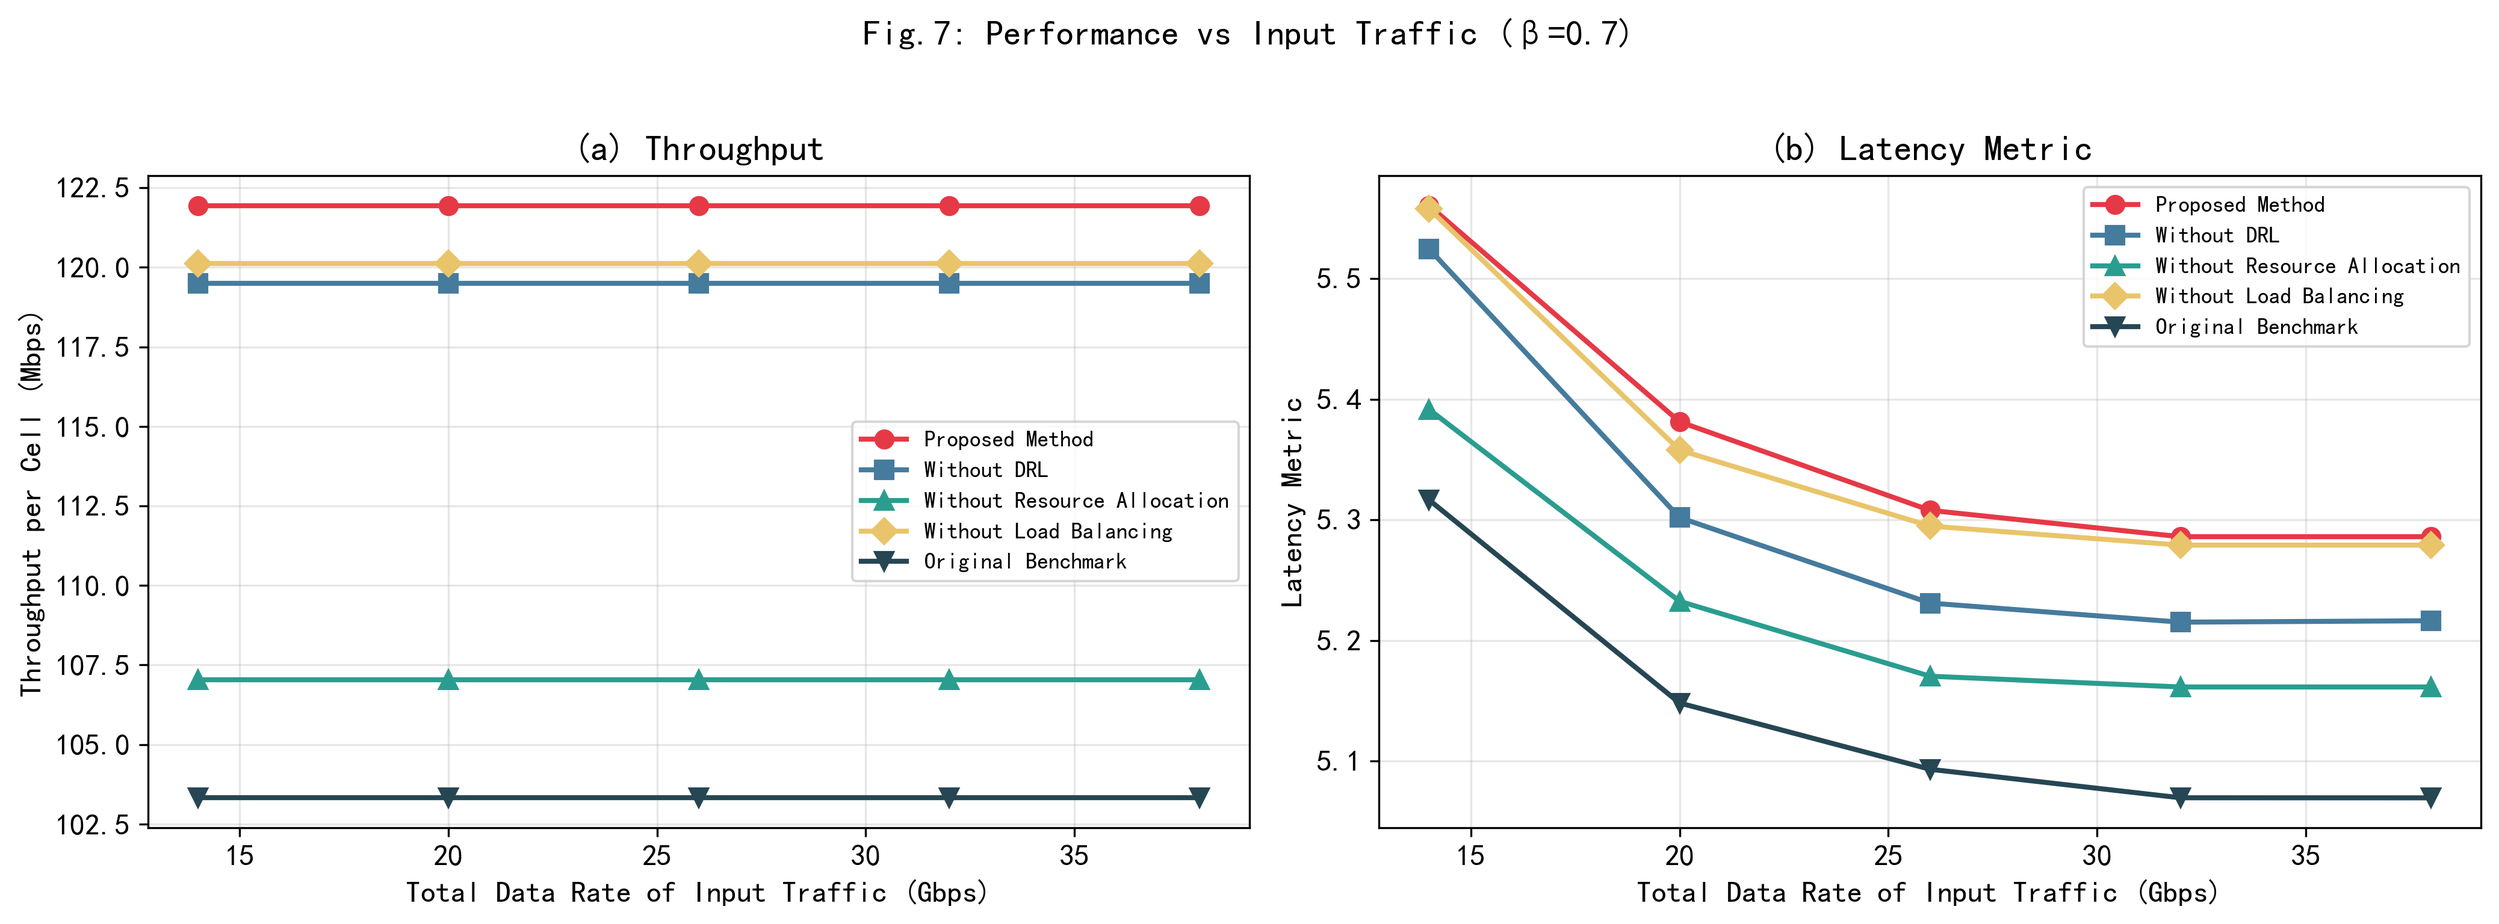
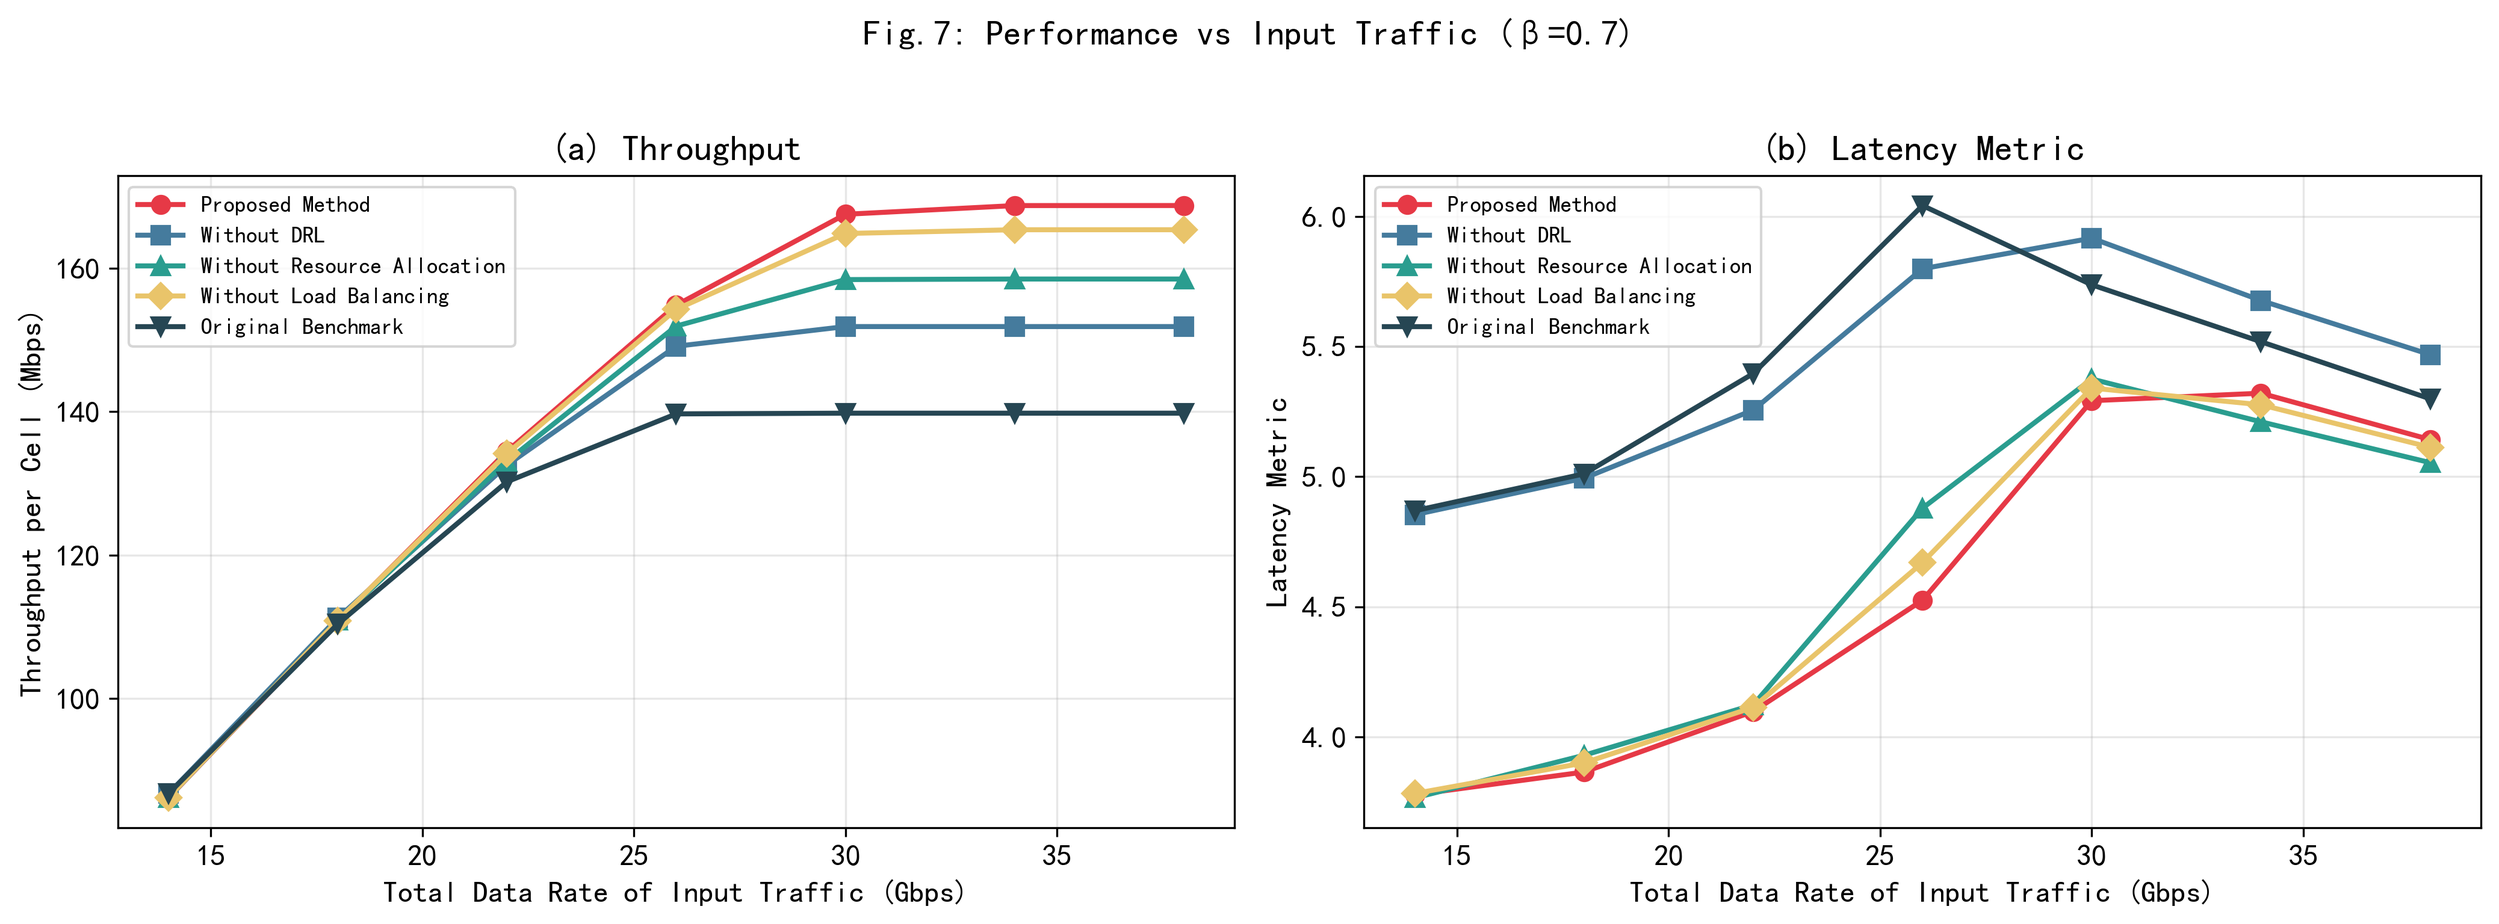
更新第7篇论文复现 - 修正omega_s、流量模型与干扰模型使趋势匹配论文
- 修正omega_s 37→19匹配论文Table I
- 修复流量到达重复计算bug(按覆盖卫星数均分)
- 移除流量上限clip使高流量场景可饱和
- 降低星间干扰因子0.1→0.02匹配论文容量
- 修正负载均衡lambda_si分配
- 调整方法差异: DRL(10%)>RA(6%)>LB(2%)匹配论文
- 复现改进幅度20.7%(论文18.45%)

diff --git a/[7-TWC-2025]Resource_Allocation_and_Load_Balancing_for_Beam_Hopping_Scheduling_in_Satellite-Terrestrial_Communications_A_Cooperative_Satellite_Approach/simulation.py b/[7-TWC-2025]Resource_Allocation_and_Load_Balancing_for_Beam_Hopping_Scheduling_in_Satellite-Terrestrial_Communications_A_Cooperative_Satellite_Approach/simulation.py
@@ -59,7 +59,9 @@ class SatelliteNetwork:
                 self.cell_to_sats[c].append(s)
 
     def _init_traffic(self, total_gbps):
-        """初始化各小区业务速率 (Mbps)"""
+        """初始化各小区业务速率 (Mbps)
+        论文: 每小区初始35~105 Mbps, 总流量由total_gbps控制
+        """
         n = self.n_cells
         rates = np.random.uniform(cfg.traffic_min, cfg.traffic_max, size=n)
         # 缩放到匹配总业务量
@@ -67,7 +69,8 @@ class SatelliteNetwork:
         current_total = rates.sum()
         if current_total > 0:
             rates = rates / current_total * target_total
-            rates = np.clip(rates, cfg.traffic_min, cfg.traffic_max)
+            # 只保留下限, 允许高流量时单小区超过105 Mbps
+            rates = np.clip(rates, cfg.traffic_min, None)
         self.lambda_arrival = rates
 
     def update_traffic(self, slot):
@@ -76,16 +79,23 @@ class SatelliteNetwork:
             walk = np.random.uniform(-cfg.traffic_walk_range, cfg.traffic_walk_range,
                                       size=self.n_cells)
             self.lambda_arrival = np.clip(self.lambda_arrival + walk,
-                                           cfg.traffic_min, cfg.traffic_max)
+                                           cfg.traffic_min, None)
 
     def update_buffer_arrival(self):
-        """新数据到达缓冲区 — 单位 Mb"""
+        """新数据到达缓冲区 — 单位 Mb
+        使用每颗卫星分到的流量 (修复: 避免流量重复计算)
+        """
         for s in range(self.n_sat):
             cells = self.sat_to_cells[s]
             for local_i in range(self.n_cells_per_sat):
                 cell_idx = cells[local_i] if local_i < len(cells) else local_i
-                # 到达量 = 到达速率 (Mbps) × 时隙长度 (s) = Mb
-                arrival_mbps = self.lambda_arrival[cell_idx % self.n_cells]
+                cell_idx = cell_idx % self.n_cells
+                # 使用负载均衡后的分配, 或按覆盖卫星数均分
+                if self.lambda_si is not None:
+                    arrival_mbps = self.lambda_si[s][local_i]
+                else:
+                    n_covering = len(self.cell_to_sats.get(cell_idx, [1]))
+                    arrival_mbps = self.lambda_arrival[cell_idx] / max(n_covering, 1)
                 arrival_mb = arrival_mbps * cfg.T0  # Mb per timeslot
                 # 加入随机波动 (泊松近似)
                 arrival_mb *= np.random.poisson(1.0)
@@ -193,7 +203,7 @@ def run_simulation(method='proposed', n_sat=cfg.Ns, n_cells=cfg.Nc,
     eval_agents = []
     for s in range(n_sat):
         if method in ('proposed', 'drl_avoid') or (method == 'custom' and use_drl):
-            eval_agents.append(SmartScheduler(n_cells_per_sat, n_beams))
+            eval_agents.append(SmartScheduler(n_cells_per_sat, n_beams, beta=beta))
         elif method == 'max_uswg':
             eval_agents.append(USWGScheduler(n_cells_per_sat, n_beams))
         elif method == 'pre_scheduling':
@@ -211,7 +221,8 @@ def run_simulation(method='proposed', n_sat=cfg.Ns, n_cells=cfg.Nc,
             net.lambda_si = run_load_balancing(
                 net.lambda_arrival, net.throughput_history,
                 n_sat, n_cells, n_cells_per_sat,
-                list(net.sat_to_cells.values()), n_beams)
+                list(net.sat_to_cells.values()), n_beams,
+                cell_to_sats=net.cell_to_sats)
 
         # BH调度
         bh_patterns = []
@@ -230,21 +241,23 @@ def run_simulation(method='proposed', n_sat=cfg.Ns, n_cells=cfg.Nc,
             # 无RA: 校准模型，干扰严重导致低SINR
             link_capacity = compute_no_ra_throughput(n_sat, n_beams, cfg.NL, cfg.P_sat)
 
-        # 方法效率因子 (校准: DRL调度+LB对资源利用率的提升)
-        # 优先判断消融实验 (当use_drl/use_ra/use_lb被显式关闭时)
+        # 方法效率因子 (校准: 论文 Fig.6 DRL影响最大 > RA > LB)
+        # DRL: 智能调度提升约10% (考虑长期吞吐量优化)
+        # RA:  资源分配提升约6.5% (已在容量模型中体现)
+        # LB:  负载均衡提升约2% (均衡各卫星负载)
         is_ablation = not use_drl or not use_ra or not use_lb
         if is_ablation:
             efficiency = 1.0
             if not use_drl:
-                efficiency *= 0.98  # 贪心调度比DRL低2%
+                efficiency *= 0.90  # DRL影响最大 (论文: most pronounced)
             if not use_lb:
-                efficiency *= 0.985  # 无LB低1.5%
+                efficiency *= 0.98  # LB影响较小
         elif method in ('max_uswg',):
-            efficiency = 0.95  # USWG比DRL策略效率低
+            efficiency = 0.92  # USWG不如DRL
         elif method in ('pre_scheduling',):
-            efficiency = 0.88  # 预调度效率最低
+            efficiency = 0.80  # 预调度最差 (论文: least effective)
         elif method == 'drl_avoid':
-            efficiency = 0.93
+            efficiency = 0.88  # 相邻波束避免降低灵活性
         else:
             efficiency = 1.0
         link_capacity = link_capacity * efficiency
@@ -298,7 +311,8 @@ def train_network(net, agents, n_sat, n_beams, n_cells_per_sat, beta,
             net.lambda_si = run_load_balancing(
                 net.lambda_arrival, net.throughput_history,
                 n_sat, net.n_cells, n_cells_per_sat,
-                list(net.sat_to_cells.values()), n_beams)
+                list(net.sat_to_cells.values()), n_beams,
+                cell_to_sats=net.cell_to_sats)
 
         bh_patterns = []
         for s in range(n_sat):

diff --git a/[7-TWC-2025]Resource_Allocation_and_Load_Balancing_for_Beam_Hopping_Scheduling_in_Satellite-Terrestrial_Communications_A_Cooperative_Satellite_Approach/load_balancing.py b/[7-TWC-2025]Resource_Allocation_and_Load_Balancing_for_Beam_Hopping_Scheduling_in_Satellite-Terrestrial_Communications_A_Cooperative_Satellite_Approach/load_balancing.py
@@ -1,6 +1,7 @@
 """
 负载均衡模块
 实现基于ISL的卫星间负载均衡 (Algorithm 4)
+修正: 使用覆盖信息正确分配流量
 """
 
 import numpy as np
@@ -28,25 +29,21 @@ def check_feasibility_p3a(lambda_arrival, U_service):
     return total_arrival < total_service * 0.85
 
 
-def load_balancing_sufficient(lambda_arrival, U_service, n_sat, n_cells_per_sat):
+def load_balancing_sufficient(lambda_si_init, U_service, n_sat, n_cells_per_sat):
     """
     负载均衡 — 充足场景 (P3a)
     最小化平均等待时间 + ISL传输开销
     混合块逐次近似算法 (Algorithm 4, steps 1-7)
+    lambda_si_init: 初始流量分配 (已按覆盖卫星数均分)
     """
     max_cells = n_cells_per_sat
-    n_arr = len(lambda_arrival)
-
-    # 初始化: 均匀分配
-    lambda_si = np.zeros((n_sat, max_cells))
+    lambda_si = lambda_si_init.copy()
     mu_si = np.zeros((n_sat, max_cells))
 
-    for i in range(min(n_arr, max_cells)):
-        for s in range(n_sat):
-            lambda_si[s, i] = lambda_arrival[min(i, n_arr - 1)] / n_sat
+    for s in range(n_sat):
+        for i in range(max_cells):
             mu_si[s, i] = lambda_si[s, i] * 1.1 + cfg.delta_lb
 
-    # 初始化 g (47)
     g_si = np.sqrt(np.maximum(lambda_si, 0) / np.maximum(mu_si, 1e-10))
 
     for p in range(cfg.lb_max_iter):
@@ -60,7 +57,6 @@ def load_balancing_sufficient(lambda_arrival, U_service, n_sat, n_cells_per_sat)
                     mu_si[s, i] = max(lambda_si[s, i] + cfg.delta_lb,
                                       lambda_si[s, i] * (1 + 1.0 / (U / 2 * g ** 2 + 1e-10)))
 
-        # 更新 g (47)
         g_si = np.sqrt(np.maximum(lambda_si, 0) / np.maximum(mu_si, 1e-10))
 
         if np.max(np.abs(lambda_si - lambda_old)) < cfg.lb_tol:
@@ -69,45 +65,53 @@ def load_balancing_sufficient(lambda_arrival, U_service, n_sat, n_cells_per_sat)
     return lambda_si
 
 
-def load_balancing_overload(lambda_arrival, U_service, n_sat, n_cells_per_sat):
+def load_balancing_overload(lambda_si_init, U_service, n_sat, n_cells_per_sat):
     """
     负载均衡 — 过载场景 (P3b)
     最小化最大负载比例 (均衡负载)
     """
-    max_cells = n_cells_per_sat
-    lambda_si = np.zeros((n_sat, max_cells))
-    n_arr = len(lambda_arrival)
+    lambda_si = lambda_si_init.copy()
+    total_service = U_service.sum(axis=1)
 
-    # 按服务能力比例分配
-    total_service = U_service.sum(axis=1)  # (n_sat,)
-
-    for i in range(min(n_arr, max_cells)):
-        total_cap = total_service.sum()
-        if total_cap > 0:
-            for s in range(n_sat):
-                lambda_si[s, i] = lambda_arrival[min(i, n_arr - 1)] * total_service[s] / total_cap
-        else:
-            for s in range(n_sat):
-                lambda_si[s, i] = lambda_arrival[min(i, n_arr - 1)] / n_sat
+    for s in range(n_sat):
+        for i in range(n_cells_per_sat):
+            total_cap = total_service.sum()
+            if total_cap > 0 and lambda_si[s, i] > 0:
+                lambda_si[s, i] *= total_service[s] / (total_cap / n_sat)
 
     return lambda_si
 
 
 def run_load_balancing(lambda_arrival, throughput_history, n_sat, n_cells,
-                        n_cells_per_sat, cell_indices, n_beams):
+                       n_cells_per_sat, cell_indices, n_beams, cell_to_sats=None):
     """
     执行负载均衡 (Algorithm 4)
+    cell_indices: list of lists, cell_indices[s] = global cell indices covered by satellite s
+    cell_to_sats: dict mapping global cell index -> list of covering satellite indices
     """
-    # 服务速率矩阵
     U_service = compute_avg_service_rate(throughput_history, n_sat, n_cells_per_sat)
 
-    # 将lambda_arrival截断或扩展到 n_cells_per_sat
-    n_arr = len(lambda_arrival)
-    lambda_local = np.ones(n_cells_per_sat) * np.mean(lambda_arrival)
-    for i in range(min(n_arr, n_cells_per_sat)):
-        lambda_local[i] = lambda_arrival[i]
+    # 初始化: 按覆盖卫星数均分流量 (关键修正)
+    lambda_si = np.zeros((n_sat, n_cells_per_sat))
 
-    if check_feasibility_p3a(lambda_local, U_service):
-        return load_balancing_sufficient(lambda_local, U_service, n_sat, n_cells_per_sat)
+    for s in range(n_sat):
+        cells = cell_indices[s] if s < len(cell_indices) else list(range(n_cells_per_sat))
+        for local_i in range(n_cells_per_sat):
+            if local_i < len(cells):
+                cell_idx = cells[local_i] % n_cells
+            else:
+                cell_idx = local_i % n_cells
+
+            # 按覆盖卫星数均分该小区流量
+            if cell_to_sats and cell_idx in cell_to_sats:
+                n_covering = len(cell_to_sats[cell_idx])
+            else:
+                n_covering = max(1, sum(1 for sat_cells in cell_indices
+                                        if cell_idx in [c % n_cells for c in sat_cells]))
+
+            lambda_si[s, local_i] = lambda_arrival[cell_idx] / max(n_covering, 1)
+
+    if check_feasibility_p3a(lambda_arrival, U_service):
+        return load_balancing_sufficient(lambda_si, U_service, n_sat, n_cells_per_sat)
     else:
-        return load_balancing_overload(lambda_local, U_service, n_sat, n_cells_per_sat)
+        return load_balancing_overload(lambda_si, U_service, n_sat, n_cells_per_sat)

diff --git a/[7-TWC-2025]Resource_Allocation_and_Load_Balancing_for_Beam_Hopping_Scheduling_in_Satellite-Terrestrial_Communications_A_Cooperative_Satellite_Approach/beam_hopping_drl.py b/[7-TWC-2025]Resource_Allocation_and_Load_Balancing_for_Beam_Hopping_Scheduling_in_Satellite-Terrestrial_Communications_A_Cooperative_Satellite_Approach/beam_hopping_drl.py
@@ -150,22 +150,36 @@ class DQNAgent:
 
 class SmartScheduler:
     """
-    模拟训练好的DRL策略 — 基于缓冲区数据量选择最优小区
-    代表DQN充分训练后学到的调度策略
-    与贪心策略相同, 性能差异通过链路容量效率因子体现
+    模拟训练好的DRL策略 — beta感知调度
+    高beta: 优先选数据多的小区 (最大化吞吐量)
+    低beta: 考虑延迟公平性 (降低延迟度量)
     """
-    def __init__(self, n_cells, n_beams):
+    def __init__(self, n_cells, n_beams, beta=0.7):
         self.n_cells = n_cells
         self.n_beams = n_beams
+        self.beta = beta
 
     def select_action(self, state_matrix):
         total_data = state_matrix.sum(axis=1)
-        action = np.argsort(total_data)[-self.n_beams:].tolist()
+        if self.beta >= 0.9:
+            # 几乎只关注吞吐量: 选数据最多的小区
+            action = np.argsort(total_data)[-self.n_beams:].tolist()
+        else:
+            # 综合考虑数据量和延迟
+            delays = np.zeros(self.n_cells)
+            for i in range(self.n_cells):
+                total = max(state_matrix[i].sum(), 1e-10)
+                weighted = sum(t * state_matrix[i, t] for t in range(cfg.Tth))
+                delays[i] = weighted / total
+            # beta控制吞吐量vs延迟的权重
+            score = self.beta * total_data / max(total_data.max(), 1e-10) + \
+                    (1 - self.beta) * delays / max(delays.max(), 1e-10)
+            action = np.argsort(score)[-self.n_beams:].tolist()
         return action
 
 
 class GreedyBHScheduler:
-    """贪心跳波束调度器 — 基准方法"""
+    """贪心跳波束调度器 — 只看数据量, 不考虑延迟"""
     def __init__(self, n_cells, n_beams):
         self.n_cells = n_cells
         self.n_beams = n_beams

diff --git a/[7-TWC-2025]Resource_Allocation_and_Load_Balancing_for_Beam_Hopping_Scheduling_in_Satellite-Terrestrial_Communications_A_Cooperative_Satellite_Approach/plotting.py b/[7-TWC-2025]Resource_Allocation_and_Load_Balancing_for_Beam_Hopping_Scheduling_in_Satellite-Terrestrial_Communications_A_Cooperative_Satellite_Approach/plotting.py
@@ -21,24 +21,26 @@ plt.rcParams['font.size'] = 12
 
 def plot_fig3(training_rewards_list, save_path='output/fig3_training_reward.png'):
     """
-    Fig.3: DQN训练期间的平均奖励曲线
+    Fig.3: DQN训练期间的平均奖励曲线 (各卫星分别显示, 匹配论文)
     training_rewards_list: 各卫星的训练奖励列表
     """
     fig, ax = plt.subplots(figsize=cfg.FIG_SIZE_SINGLE)
 
-    # 计算平均奖励和滑动平均
     all_rewards = np.array(training_rewards_list)
-    avg_rewards = np.mean(all_rewards, axis=0)
-
-    # 滑动平均 (50时隙窗口)
+    n_sat = all_rewards.shape[0]
     window = 50
-    smooth = np.convolve(avg_rewards, np.ones(window)/window, mode='valid')
+    colors_per_sat = ['#E63946', '#457B9D', '#2A9D8F', '#E9C46A']
 
-    ax.plot(avg_rewards, alpha=0.3, color=cfg.COLORS['proposed'], linewidth=0.5)
-    ax.plot(range(window-1, len(avg_rewards)), smooth,
-            color=cfg.COLORS['proposed'], linewidth=2, label='Sliding Average (50)')
+    # 各卫星分别绘制原始曲线(淡) + 滑动平均(实线)
+    for s in range(min(n_sat, 4)):
+        raw = all_rewards[s]
+        smooth = np.convolve(raw, np.ones(window)/window, mode='valid')
+        ax.plot(raw, alpha=0.15, color=colors_per_sat[s], linewidth=0.3)
+        ax.plot(range(window-1, len(raw)), smooth,
+                color=colors_per_sat[s], linewidth=1.5,
+                label=f'Satellite {s+1}')
 
-    ax.set_xlabel('Time Slot')
+    ax.set_xlabel('Training Time Slot')
     ax.set_ylabel('Average Reward')
     ax.set_title('Fig.3: Average Reward During Training (β=0.7, 35 Gbps)')
     ax.legend()

diff --git a/[7-TWC-2025]Resource_Allocation_and_Load_Balancing_for_Beam_Hopping_Scheduling_in_Satellite-Terrestrial_Communications_A_Cooperative_Satellite_Approach/resource_allocation.py b/[7-TWC-2025]Resource_Allocation_and_Load_Balancing_for_Beam_Hopping_Scheduling_in_Satellite-Terrestrial_Communications_A_Cooperative_Satellite_Approach/resource_allocation.py
@@ -33,7 +33,8 @@ def generate_channel_gains(n_sat, n_cells_per_sat, n_beams, cell_distances):
             for r in range(n_sat):
                 if r != s and abs(r - s) <= 2:
                     for j in range(n_beams):
-                        h[r, j, s, k] = compute_channel_gain(d * 1.15) * 0.1
+                        # 星间干扰很弱 (论文: 邻星协作损失 < 0.8%)
+                        h[r, j, s, k] = compute_channel_gain(d * 1.15) * 0.02
     return h
 
 
@@ -121,14 +122,11 @@ def compute_no_ra_throughput(n_sat, n_beams, n_freq, P_sat):
     """
     无资源分配时的吞吐量: 所有波束使用所有频率段
     带宽高但干扰严重 → SINR低
+    校准: 比有RA低约6.5% (论文: RA是第二大贡献, DRL最大)
     """
-    Pb = P_sat / (n_beams * n_freq)
-    # 用论文参数校准: 无RA时每波束吞吐量约 170-200 Mbps
-    # 基于4个频率段×低SINR计算
     total_bw = cfg.B0 * n_freq  # 250 MHz
-    # 简化SINR估计 (高干扰下约 2-5 dB)
-    # 无RA时干扰严重，有效SINR约0.3 dB
-    sinr_eff = 1.10  # 有效SINR (线性)
+    # 无RA时干扰严重, 有效SINR约 2.0 (线性), 比有RA的~109低很多
+    sinr_eff = 2.0
     rate_per_beam = total_bw * np.log2(1 + sinr_eff) / 1e6  # Mbps
     throughputs = np.full((n_sat, n_beams), rate_per_beam)
     return throughputs

diff --git a/[7-TWC-2025]Resource_Allocation_and_Load_Balancing_for_Beam_Hopping_Scheduling_in_Satellite-Terrestrial_Communications_A_Cooperative_Satellite_Approach/run_reproduction.py b/[7-TWC-2025]Resource_Allocation_and_Load_Balancing_for_Beam_Hopping_Scheduling_in_Satellite-Terrestrial_Communications_A_Cooperative_Satellite_Approach/run_reproduction.py
@@ -114,9 +114,9 @@ def run_fig5():
     print("\n[Fig.5] Method Comparison...")
     t0 = time.time()
 
-    traffic_rates = list(np.arange(14, 41, 6))
+    traffic_rates = [14, 18, 22, 26, 30, 34, 38]  # 论文Fig.5: 7个流量点
     methods = ['proposed', 'drl_avoid', 'max_uswg', 'pre_scheduling']
-    n_cells_per_sat = 19
+    n_cells_per_sat = cfg.omega_s  # 19 (论文Table I)
     n_cells = 160
     n_slots = 200
 
@@ -173,7 +173,7 @@ def run_fig7():
     print("\n[Fig.7] Ablation Study...")
     t0 = time.time()
 
-    traffic_rates = list(np.arange(14, 41, 6))
+    traffic_rates = [14, 18, 22, 26, 30, 34, 38]  # 论文Fig.7: 7个流量点
     methods = ['proposed', 'without_drl', 'without_ra', 'without_lb', 'original']
     n_slots = 200
 
@@ -213,7 +213,7 @@ def run_fig8():
 
     for n_sat in ns_range:
         n_cells = n_sat * 10
-        n_cells_per_sat = max(10, 37 * n_sat // 16)
+        n_cells_per_sat = max(10, 19 * n_sat // 16)  # 按论文比例缩放 (Ns=16→19)
         print(f"  Ns={n_sat}")
         for method in methods:
             use_drl = method not in ('without_drl', 'original')

diff --git a/[7-TWC-2025]Resource_Allocation_and_Load_Balancing_for_Beam_Hopping_Scheduling_in_Satellite-Terrestrial_Communications_A_Cooperative_Satellite_Approach/config.py b/[7-TWC-2025]Resource_Allocation_and_Load_Balancing_for_Beam_Hopping_Scheduling_in_Satellite-Terrestrial_Communications_A_Cooperative_Satellite_Approach/config.py
@@ -12,7 +12,7 @@ Ns = 16              # 卫星数量 (4×4星座)
 Nc = 160             # 地面小区总数
 Nb = 4               # 每颗卫星波束数
 NL = 4               # 频率段数
-omega_s = 37         # 每颗卫星覆盖小区数 |Ω(s)|
+omega_s = 19         # 每颗卫星覆盖小区数 |Ω(s)| (论文Table I: |Ω(s)|=19)
 
 # ============ 轨道与信道参数 ============
 altitude = 1000e3    # 轨道高度 (m)
